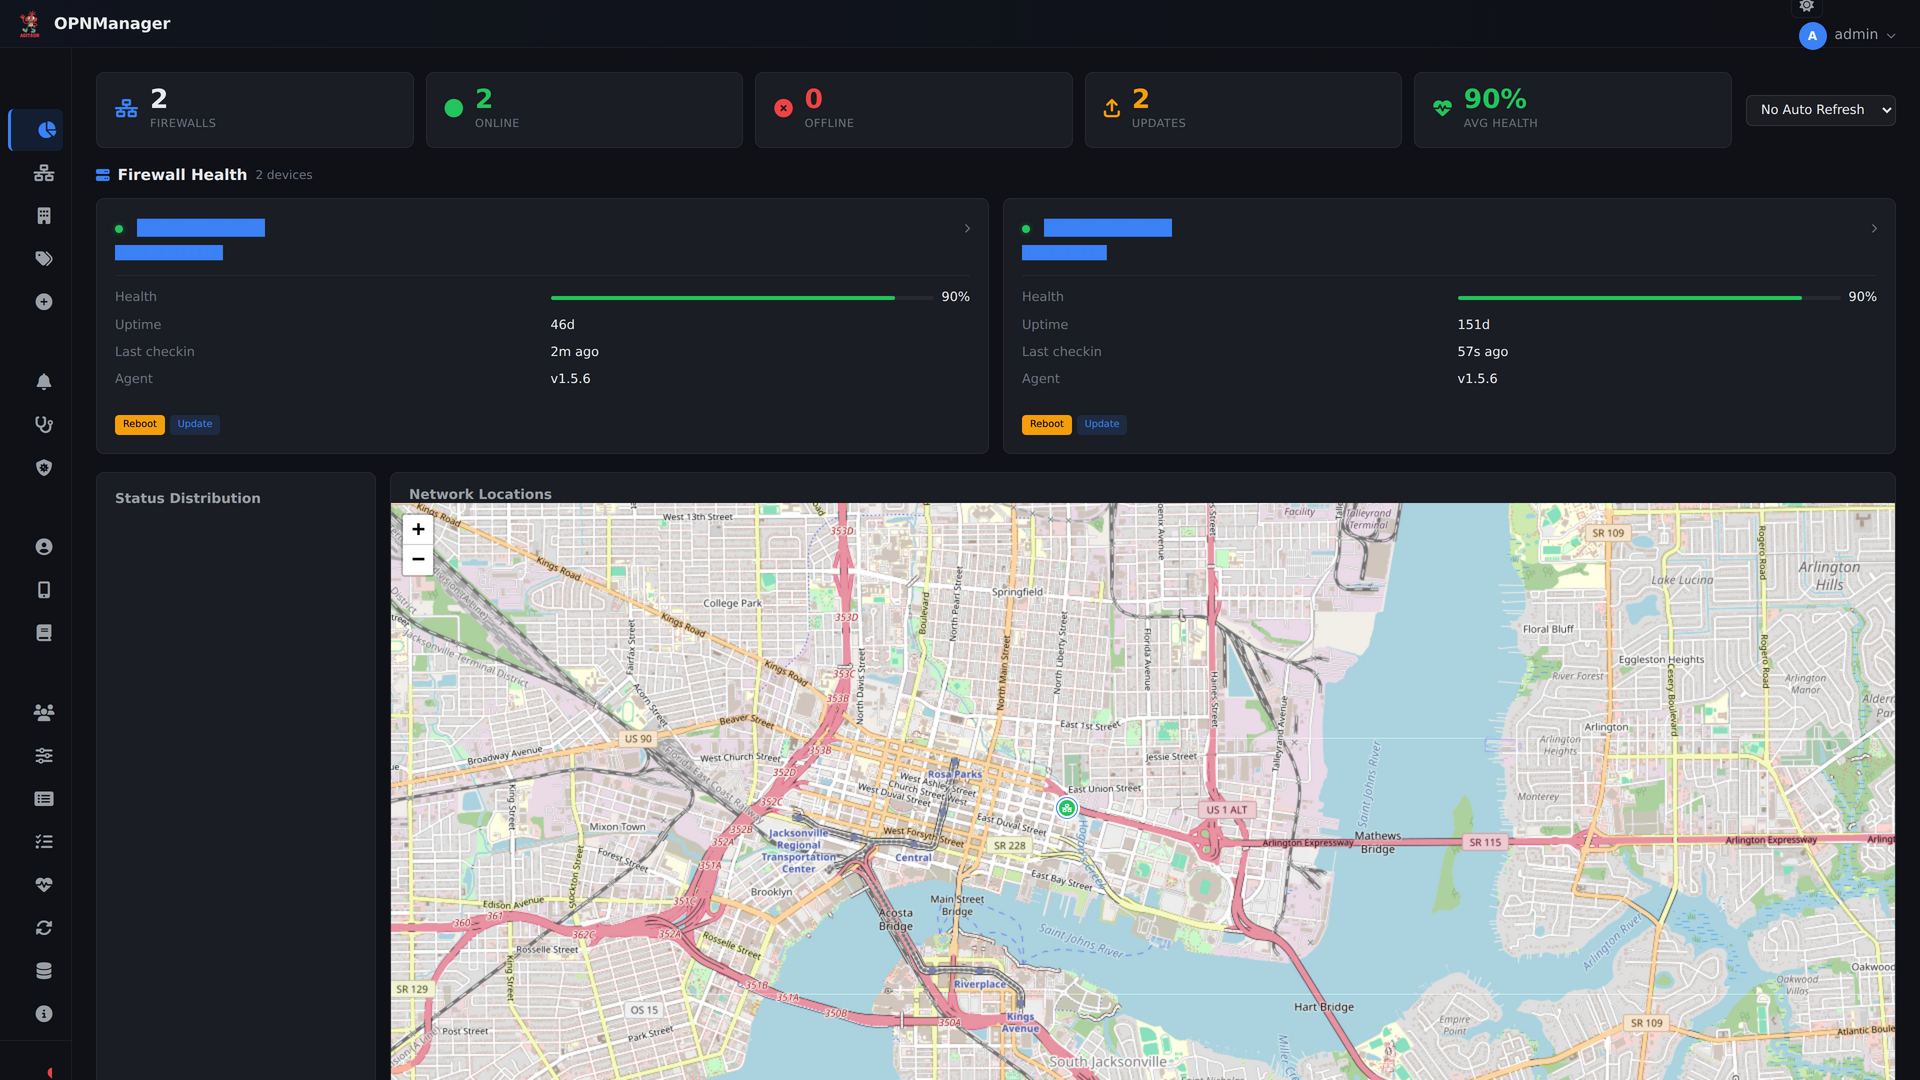
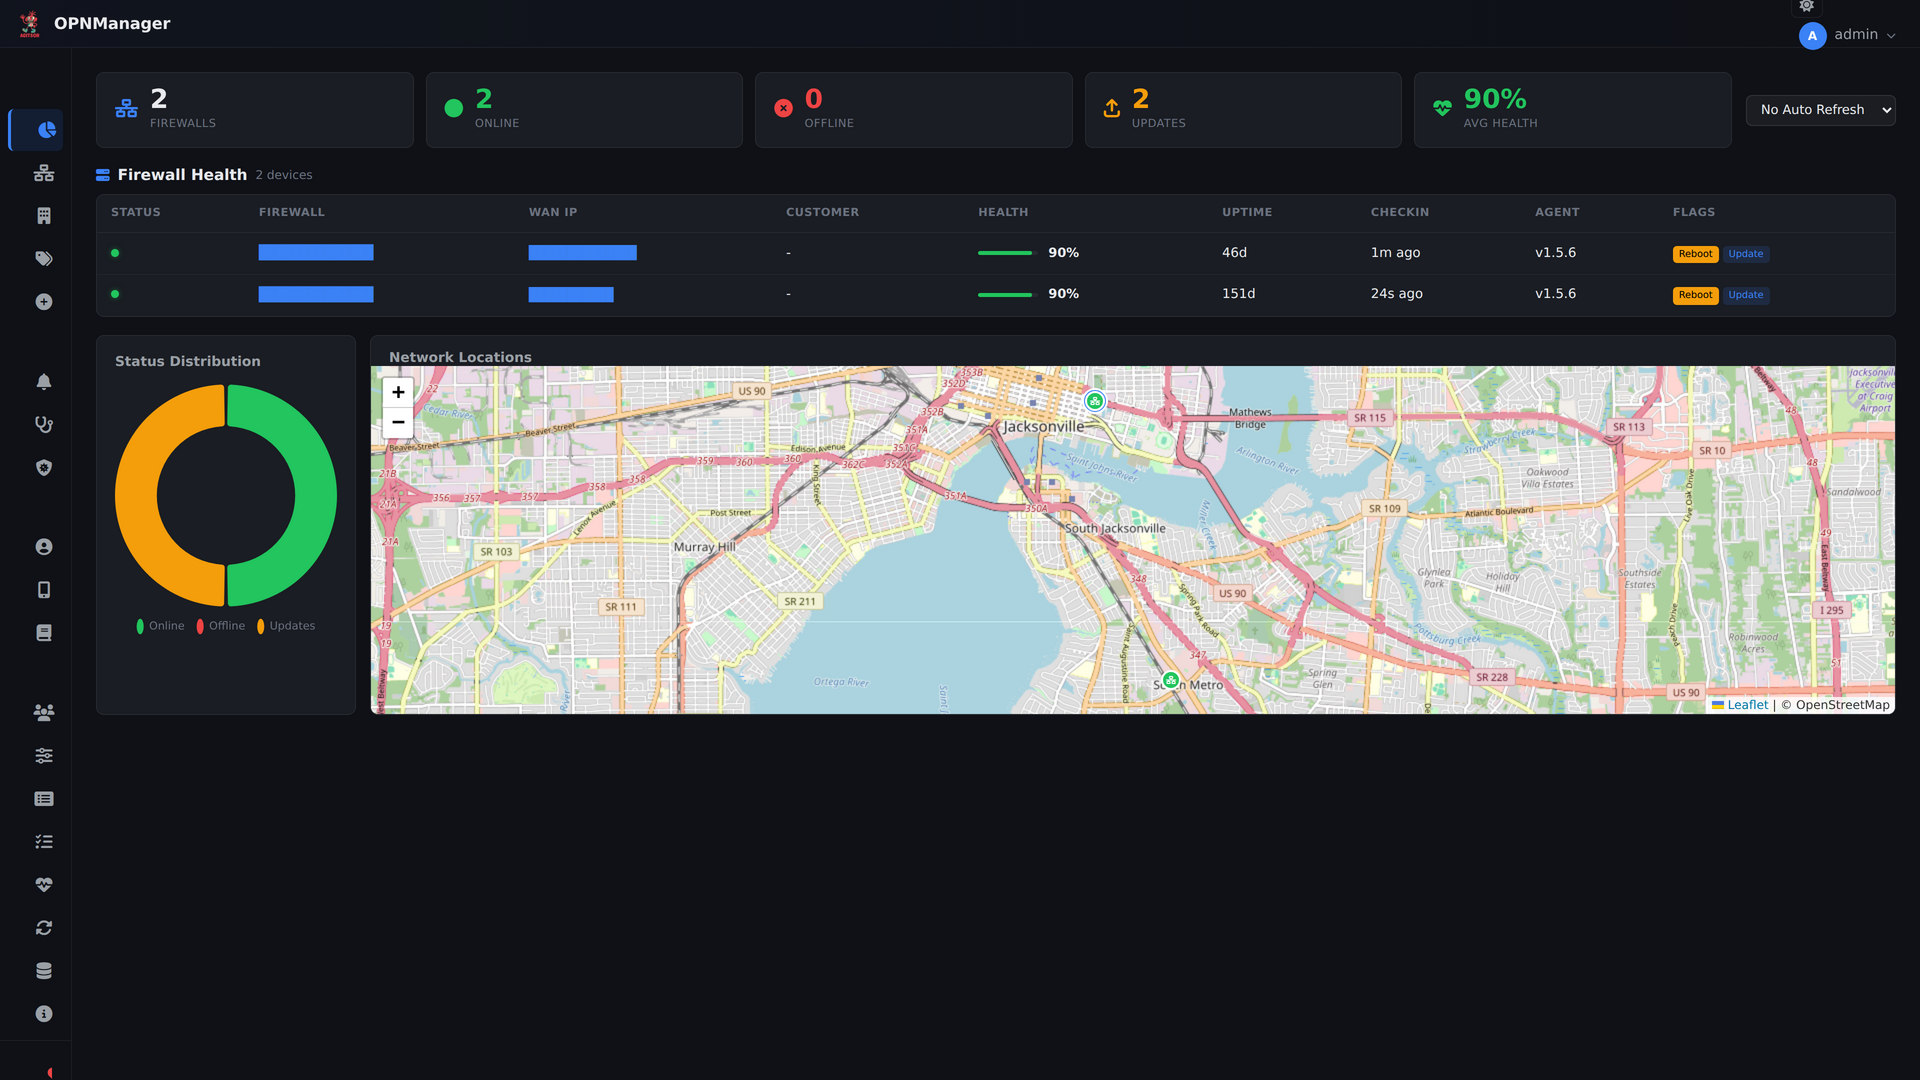
Update screenshots — compact table dashboard layout

diff --git a/take_screenshots.js b/take_screenshots.js
@@ -2,7 +2,6 @@ const puppeteer = require('puppeteer');
 const URL = 'https://opn.agit8or.net';
 const OUT = '/home/administrator/opnsense/screenshots';
 async function sleep(ms) { return new Promise(r => setTimeout(r, ms)); }
-
 async function blur(page) {
     await page.evaluate(() => {
         const pats = [/\b\d{1,3}\.\d{1,3}\.\d{1,3}\.\d{1,3}\b/,/[0-9a-fA-F]{4}:[0-9a-fA-F:]+/,/home\.agit8or\.net/i,/fw\.agit8or\.net/i,/opn\.agit8or\.net/i,/agit8or/i];
@@ -10,84 +9,44 @@ async function blur(page) {
         walk(document.body);
     });
 }
-
-async function pinSidebar(page) {
-    await page.evaluate(() => { var s=document.getElementById('sidebar'); if(s){s.classList.add('pinned','expanded');document.body.setAttribute('data-sidebar-pinned','true');} });
-    await sleep(300);
-}
-async function setTheme(page, t) {
-    await page.evaluate((th) => { document.documentElement.setAttribute('data-theme',th); document.documentElement.setAttribute('data-bs-theme',th); }, t);
-    await sleep(300);
-}
+async function pin(page){await page.evaluate(()=>{var s=document.getElementById('sidebar');if(s){s.classList.add('pinned','expanded');document.body.setAttribute('data-sidebar-pinned','true');}});await sleep(300);}
+async function unpin(page){await page.evaluate(()=>{var s=document.getElementById('sidebar');if(s){s.classList.remove('pinned','expanded');document.body.setAttribute('data-sidebar-pinned','false');}});await sleep(300);}
+async function theme(page,t){await page.evaluate((th)=>{document.documentElement.setAttribute('data-theme',th);document.documentElement.setAttribute('data-bs-theme',th);},t);await sleep(300);}
 
 (async () => {
-    const browser = await puppeteer.launch({ headless:true, args:['--no-sandbox','--ignore-certificate-errors'], ignoreHTTPSErrors:true });
+    const browser = await puppeteer.launch({headless:true,args:['--no-sandbox','--ignore-certificate-errors'],ignoreHTTPSErrors:true});
     const page = await browser.newPage();
-    await page.setViewport({ width:1920, height:1080, deviceScaleFactor:2 });
+    await page.setViewport({width:1920,height:1080,deviceScaleFactor:2});
 
-    // Login
-    await page.goto(URL+'/login.php', { waitUntil:'domcontentloaded', timeout:15000 });
+    await page.goto(URL+'/login.php',{waitUntil:'domcontentloaded',timeout:15000});
     await sleep(800);
+    console.log('1/9 Login'); await theme(page,'dark'); await page.screenshot({path:OUT+'/01-login.png'});
 
-    // 1: Login dark
-    console.log('1/9 Login');
-    await setTheme(page,'dark');
-    await page.screenshot({ path: OUT+'/01-login.png' });
+    await page.type('#username','admin'); await page.type('#password','Chin00k2023###');
+    await page.click('button[type="submit"]'); await sleep(3000);
 
-    await page.type('#username','admin');
-    await page.type('#password','Chin00k2023###');
-    await page.click('button[type="submit"]');
-    await sleep(3000);
+    console.log('2/9 Dashboard'); await page.goto(URL+'/dashboard.php',{waitUntil:'domcontentloaded',timeout:15000}); await sleep(4000);
+    await theme(page,'dark'); await pin(page); await blur(page); await page.screenshot({path:OUT+'/02-dashboard.png'});
 
-    // 2: Dashboard dark pinned
-    console.log('2/9 Dashboard');
-    await page.goto(URL+'/dashboard.php', { waitUntil:'domcontentloaded', timeout:15000 });
-    await sleep(4000);
-    await setTheme(page,'dark'); await pinSidebar(page); await blur(page);
-    await page.screenshot({ path: OUT+'/02-dashboard.png' });
+    console.log('3/9 Dashboard full'); await page.screenshot({path:OUT+'/02b-dashboard-full.png',fullPage:true});
 
-    // 3: Dashboard full
-    console.log('3/9 Dashboard full');
-    await page.screenshot({ path: OUT+'/02b-dashboard-full.png', fullPage:true });
+    console.log('4/9 Firewalls'); await page.goto(URL+'/firewalls.php',{waitUntil:'domcontentloaded',timeout:15000}); await sleep(2000);
+    await theme(page,'dark'); await pin(page); await blur(page); await page.screenshot({path:OUT+'/03-firewalls.png'});
 
-    // 4: Firewalls
-    console.log('4/9 Firewalls');
-    await page.goto(URL+'/firewalls.php', { waitUntil:'domcontentloaded', timeout:15000 });
-    await sleep(2000); await setTheme(page,'dark'); await pinSidebar(page); await blur(page);
-    await page.screenshot({ path: OUT+'/03-firewalls.png' });
+    console.log('5/9 FW details'); await page.goto(URL+'/firewall_details.php?id=51',{waitUntil:'domcontentloaded',timeout:15000}); await sleep(3000);
+    await theme(page,'dark'); await pin(page); await blur(page); await page.screenshot({path:OUT+'/04-firewall-details.png'});
 
-    // 5: Firewall details
-    console.log('5/9 FW details');
-    await page.goto(URL+'/firewall_details.php?id=51', { waitUntil:'domcontentloaded', timeout:15000 });
-    await sleep(3000); await setTheme(page,'dark'); await pinSidebar(page); await blur(page);
-    await page.screenshot({ path: OUT+'/04-firewall-details.png' });
+    console.log('6/9 Users'); await page.goto(URL+'/users.php',{waitUntil:'domcontentloaded',timeout:15000}); await sleep(1500);
+    await theme(page,'dark'); await pin(page); await blur(page); await page.screenshot({path:OUT+'/05-users.png'});
 
-    // 6: Users
-    console.log('6/9 Users');
-    await page.goto(URL+'/users.php', { waitUntil:'domcontentloaded', timeout:15000 });
-    await sleep(1500); await setTheme(page,'dark'); await pinSidebar(page); await blur(page);
-    await page.screenshot({ path: OUT+'/05-users.png' });
+    console.log('7/9 Settings'); await page.goto(URL+'/settings.php',{waitUntil:'domcontentloaded',timeout:15000}); await sleep(1500);
+    await theme(page,'dark'); await pin(page); await blur(page); await page.screenshot({path:OUT+'/06-settings.png'});
 
-    // 7: Settings
-    console.log('7/9 Settings');
-    await page.goto(URL+'/settings.php', { waitUntil:'domcontentloaded', timeout:15000 });
-    await sleep(1500); await setTheme(page,'dark'); await pinSidebar(page); await blur(page);
-    await page.screenshot({ path: OUT+'/06-settings.png' });
+    console.log('8/9 Collapsed'); await page.goto(URL+'/dashboard.php',{waitUntil:'domcontentloaded',timeout:15000}); await sleep(3000);
+    await theme(page,'dark'); await unpin(page); await blur(page); await page.screenshot({path:OUT+'/07-sidebar-collapsed.png'});
 
-    // 8: Sidebar collapsed
-    console.log('8/9 Collapsed');
-    await page.goto(URL+'/dashboard.php', { waitUntil:'domcontentloaded', timeout:15000 });
-    await sleep(3000); await setTheme(page,'dark');
-    await page.evaluate(() => { var s=document.getElementById('sidebar'); if(s){s.classList.remove('pinned','expanded');document.body.setAttribute('data-sidebar-pinned','false');} });
-    await sleep(300); await blur(page);
-    await page.screenshot({ path: OUT+'/07-sidebar-collapsed.png' });
+    console.log('9/9 Light'); await page.goto(URL+'/dashboard.php',{waitUntil:'domcontentloaded',timeout:15000}); await sleep(3000);
+    await theme(page,'light'); await pin(page); await blur(page); await page.screenshot({path:OUT+'/08-light-mode.png'});
 
-    // 9: Light mode
-    console.log('9/9 Light');
-    await page.goto(URL+'/dashboard.php', { waitUntil:'domcontentloaded', timeout:15000 });
-    await sleep(3000); await setTheme(page,'light'); await pinSidebar(page); await blur(page);
-    await page.screenshot({ path: OUT+'/08-light-mode.png' });
-
-    await browser.close();
-    console.log('Done');
+    await browser.close(); console.log('Done');
 })();
